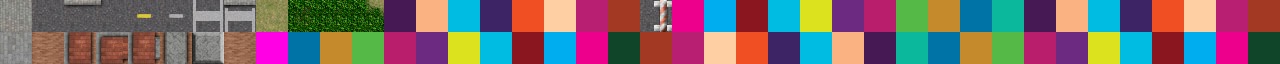
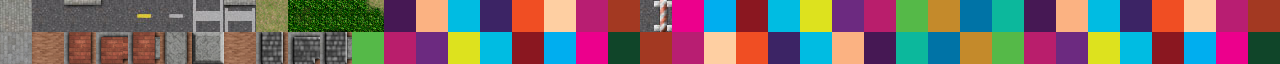
Added safehouse sprites and method for generating safehouse building.

Changed region(s): [[0.1875, 0.4688, 0.2812, 1.0]]

diff --git a/src/map/Map.java b/src/map/Map.java
@@ -442,7 +442,7 @@ public class Map {
 		}
 
 		// Generates the safehouse
-		generateBuilding(new Point((int) start.getX() + boxWidth / 3,
+		generateSafeBuilding(new Point((int) start.getX() + boxWidth / 3,
 				(int) start.getY() + boxHeight / 3), new Point((int) end.getX()
 				- boxWidth / 3, (int) end.getY() - boxHeight / 3), Direction.UP);
 
@@ -551,7 +551,82 @@ public class Map {
 
 		generateRooms(
 				new Point((int) start.getX() + 2, (int) start.getY() + 2),
-				new Point((int) end.getX() - 2, (int) end.getY() - 2));
+				new Point((int) end.getX() - 2, (int) end.getY() - 2), false);
+
+	}
+	
+	/**
+	 * Generates the building and its tiles
+	 * 
+	 * @param start
+	 * @param end
+	 */
+	public void generateSafeBuilding(Point start, Point end, Direction direction) {
+		int boxWidth = (int) (Math.abs(end.getX() - (start.getX())));
+		int boxHeight = (int) (Math.abs(end.getY() - (start.getY())));
+
+		for (int i = (int) start.getX(); i <= end.getX(); i++) {
+			for (int j = (int) start.getY(); j <= end.getY(); j++) {
+				if (i == start.getX() || i == end.getX() || j == start.getY()
+						|| j == end.getY()) {
+					setTile(i, j, 200, Direction.UP, false);
+				}
+				/*
+				 * else if (i == start.getX()+1 || i == end.getX()-1 || j ==
+				 * start.getY()+1 || j == end.getY()-1) setTile(i, j, 202,
+				 * Direction.UP,true); else setTile(i, j, 201,
+				 * Direction.UP,false);
+				 */
+				else if (i == start.getX() + 1 && j == start.getY() + 1) {
+					setTile(i, j, 209, Direction.DOWN, true);
+				} else if (i == start.getX() + 1 && j == end.getY() - 1) {
+					setTile(i, j, 209, Direction.RIGHT, true);
+				} else if (i == end.getX() - 1 && j == start.getY() + 1) {
+					setTile(i, j, 209, Direction.LEFT, true);
+				} else if (i == end.getX() - 1 && j == end.getY() - 1) {
+					setTile(i, j, 209, Direction.UP, true);
+				} else if (i == start.getX() + 1) {
+					setTile(i, j, 208, Direction.DOWN, true);
+				} else if (j == start.getY() + 1) {
+					setTile(i, j, 208, Direction.LEFT, true);
+				} else if (i == end.getX() - 1) {
+					setTile(i, j, 208, Direction.UP, true);
+				} else if (j == end.getY() - 1) {
+					setTile(i, j, 208, Direction.RIGHT, true);
+				} else
+					setTile(i, j, 201, Direction.UP, false);
+			}
+		}
+
+		// Creates the doors
+		if (boxWidth > 30 && boxHeight > 30)
+			doorDivider = 4;
+		else
+			doorDivider = 3;
+
+		if (direction == Direction.UP || direction == Direction.DOWN) {
+			setTile((int) start.getX() + boxWidth / doorDivider,
+					(int) start.getY() + 1, 207, Direction.UP, false);
+			setTile((int) start.getX() + boxWidth / doorDivider - 1,
+					(int) start.getY() + 1, 207, Direction.UP, false);
+			setTile((int) end.getX() - boxWidth / doorDivider,
+					(int) end.getY() - 1, 207, Direction.UP, false);
+			setTile((int) end.getX() - boxWidth / doorDivider + 1,
+					(int) end.getY() - 1, 207, Direction.UP, false);
+		} else if (direction == Direction.RIGHT || direction == Direction.LEFT) {
+			setTile((int) end.getX() - 1, (int) start.getY() + boxHeight
+					/ doorDivider, 207, Direction.UP, false);
+			setTile((int) end.getX() - 1, (int) start.getY() + boxHeight
+					/ doorDivider - 1, 207, Direction.UP, false);
+			setTile((int) start.getX() + 1, (int) end.getY() - boxHeight
+					/ doorDivider, 207, Direction.UP, false);
+			setTile((int) start.getX() + 1, (int) end.getY() - boxHeight
+					/ doorDivider + 1, 207, Direction.UP, false);
+		}
+
+		generateRooms(
+				new Point((int) start.getX() + 2, (int) start.getY() + 2),
+				new Point((int) end.getX() - 2, (int) end.getY() - 2), true);
 
 	}
 
@@ -561,7 +636,7 @@ public class Map {
 	 * @param start
 	 * @param end
 	 */
-	public void generateRooms(Point start, Point end) {
+	public void generateRooms(Point start, Point end, boolean safe) {
 
 		int boxWidth = (int) (Math.abs(end.getX() - (start.getX())));
 		int boxHeight = (int) (Math.abs(end.getY() - (start.getY())));
@@ -575,19 +650,19 @@ public class Map {
 						(int) start.getY() + (boxHeight / 2));
 				generateWall(midPoint,
 						new Point((int) end.getX(), (int) start.getY()
-								+ (boxHeight / 2)));
+								+ (boxHeight / 2)),safe);
 				generateRooms(start,
 						new Point((int) end.getX(), (int) start.getY()
-								+ (boxHeight / 2)));
-				generateRooms(midPoint, end);
+								+ (boxHeight / 2)),safe);
+				generateRooms(midPoint, end,safe);
 			} else if (boxWidth > boxHeight) {
 				Point midPoint = new Point((int) start.getX() + boxWidth / 2,
 						(int) start.getY());
 				generateWall(midPoint, new Point((int) start.getX() + boxWidth
-						/ 2, (int) end.getY()));
+						/ 2, (int) end.getY()),safe);
 				generateRooms(start, new Point((int) start.getX() + boxWidth
-						/ 2, (int) end.getY()));
-				generateRooms(midPoint, end);
+						/ 2, (int) end.getY()),safe);
+				generateRooms(midPoint, end,safe);
 			}
 		}
 		for (int z = 0; z < MAX_ZOMBIE_PER_ROOM; z++) {
@@ -664,7 +739,7 @@ public class Map {
 	 * @param start
 	 * @param end
 	 */
-	public void generateWall(Point start, Point end) {
+	public void generateWall(Point start, Point end, boolean safe) {
 		int boxWidth = (int) (Math.abs(end.getX() - (start.getX())));
 		int boxHeight = (int) (Math.abs(end.getY() - (start.getY())));
 		int doorLocation;
@@ -673,8 +748,12 @@ public class Map {
 
 			if ((tileMap[(int) start.getX()][(int) start.getY()] & 0xFFF) != 205
 					&& (tileMap[(int) start.getX()][(int) start.getY()] & 0xFFF) != 206) {
-				setTile((int) start.getX(), (int) start.getY() - 1, 204,
+				if (!safe)
+					setTile((int) start.getX(), (int) start.getY() - 1, 204,
 						Direction.LEFT, true);
+				else
+					setTile((int) start.getX(), (int) start.getY() - 1, 210,
+							Direction.LEFT, true);
 				setTile((int) start.getX(), (int) start.getY(), 205,
 						Direction.UP, true);
 			} else
@@ -683,8 +762,12 @@ public class Map {
 
 			if ((tileMap[(int) start.getX()][(int) end.getY()] & 0xFFF) != 205
 					&& (tileMap[(int) start.getX()][(int) end.getY()] & 0xFFF) != 206) {
-				setTile((int) start.getX(), (int) end.getY() + 1, 204,
-						Direction.RIGHT, true);
+				if (!safe)
+					setTile((int) start.getX(), (int) end.getY() + 1, 204,
+							Direction.RIGHT, true);
+				else
+					setTile((int) start.getX(), (int) end.getY() + 1, 210,
+							Direction.RIGHT, true);
 				setTile((int) start.getX(), (int) end.getY(), 205,
 						Direction.UP, true);
 			} else
@@ -705,8 +788,12 @@ public class Map {
 					&& (tileMap[(int) start.getX()][(int) start.getY()] & 0xFFF) != 206) {
 				setTile((int) start.getX(), (int) start.getY(), 205,
 						Direction.RIGHT, true);
-				setTile((int) start.getX() - 1, (int) start.getY(), 204,
-						Direction.DOWN, true);
+				if (!safe)
+					setTile((int) start.getX() - 1, (int) start.getY(), 204,
+							Direction.DOWN, true);
+				else
+					setTile((int) start.getX() - 1, (int) start.getY(), 210,
+							Direction.DOWN, true);
 			} else {
 				setTile((int) start.getX(), (int) start.getY(), 206,
 						Direction.DOWN, true);
@@ -716,8 +803,10 @@ public class Map {
 					&& (tileMap[(int) end.getX()][(int) start.getY()] & 0xFFF) != 206) {
 				setTile((int) end.getX(), (int) start.getY(), 205,
 						Direction.RIGHT, true);
-				setTile((int) end.getX() + 1, (int) start.getY(), 204,
-						Direction.UP, true);
+				if (!safe)
+					setTile((int) end.getX() + 1, (int) start.getY(), 204, Direction.UP, true);
+				else
+					setTile((int) end.getX() + 1, (int) start.getY(), 210, Direction.UP, true);
 			} else {
 				setTile((int) end.getX(), (int) start.getY(), 206,
 						Direction.UP, true);
